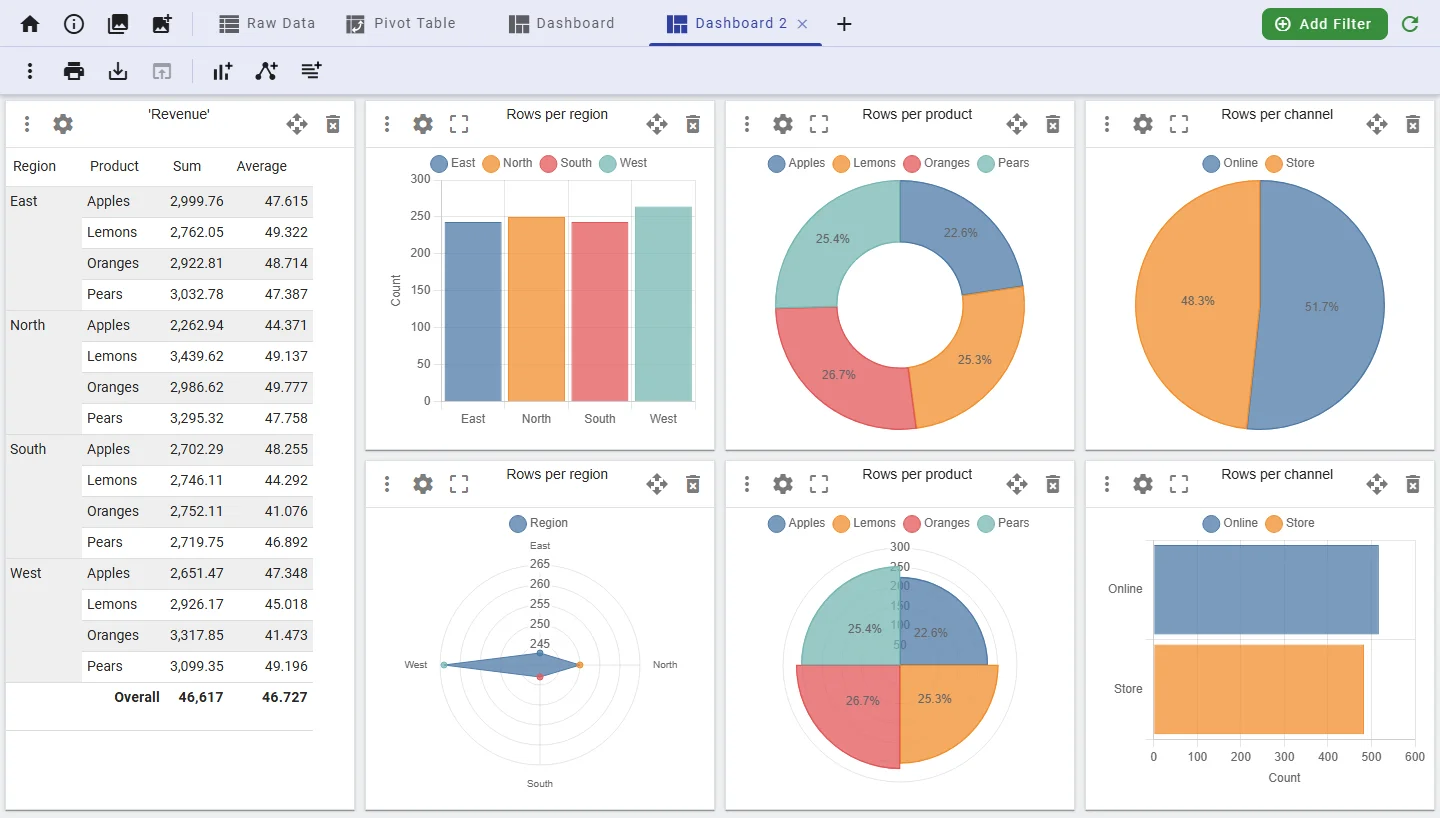
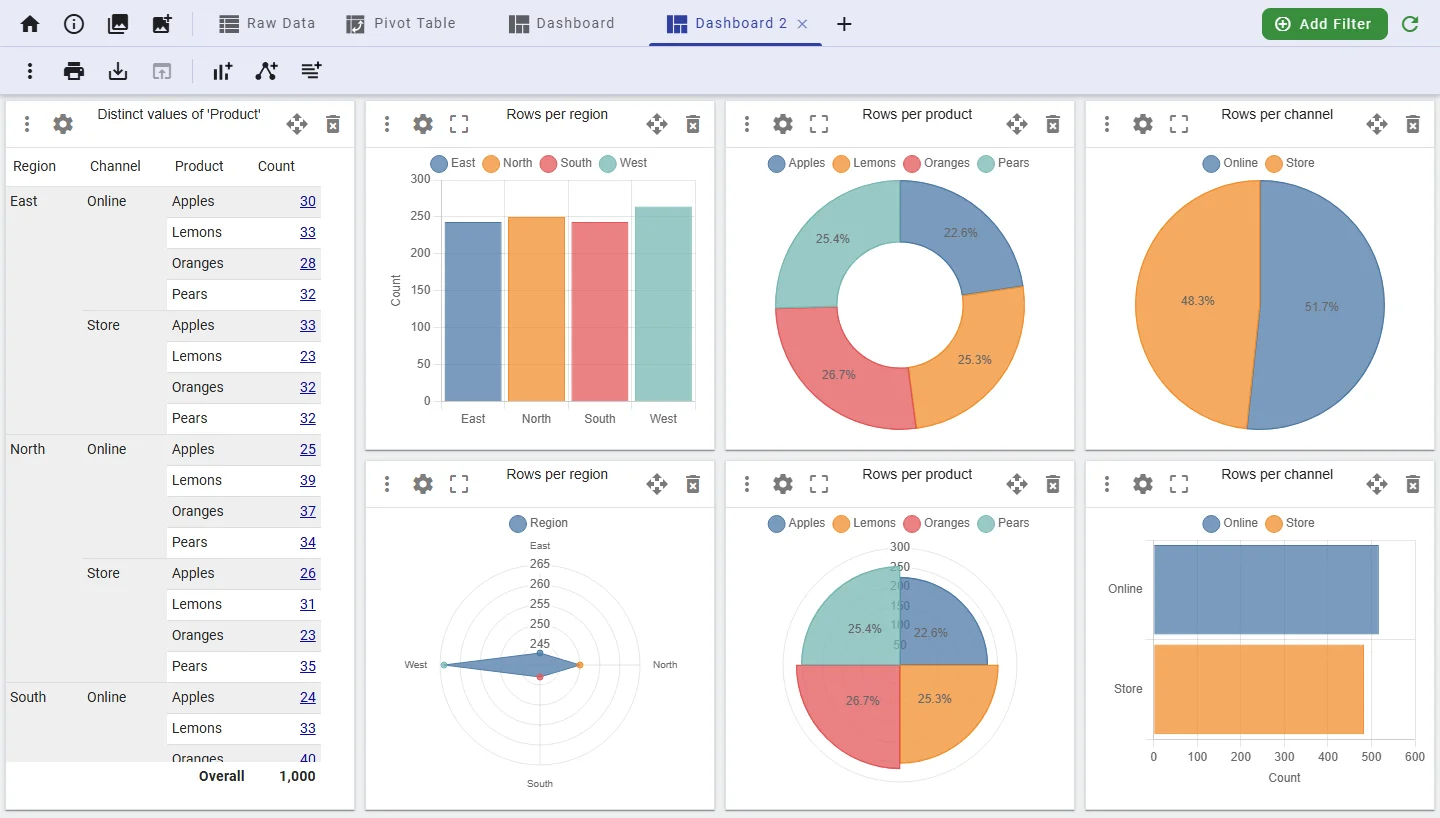
Add raw data time filter figure to README, show count summary with links on intro

diff --git a/src/intro/index.html b/src/intro/index.html
@@ -192,15 +192,15 @@
         <figure class="landing-frame">
           <button class="landing-zoom" type="button" commandfor="zoom-dashboards" command="show-modal">
             <img src="screenshots/dashboards.webp"
-              alt="Dashboard with an aggregated summary table and bar, doughnut, pie, radar, polar area and horizontal bar charts"
+              alt="Dashboard with a summary table counting rows per region, channel and product, with links to the underlying data, next to bar, doughnut, pie, radar, polar area and horizontal bar charts"
               width="1440" height="818" loading="lazy">
           </button>
           <dialog id="zoom-dashboards" class="landing-zoom-dialog" closedby="any"
-            aria-label="Dashboard with an aggregated summary table and bar, doughnut, pie, radar, polar area and horizontal bar charts">
+            aria-label="Dashboard with a summary table counting rows per region, channel and product, with links to the underlying data, next to bar, doughnut, pie, radar, polar area and horizontal bar charts">
             <button class="landing-btn landing-btn-primary landing-zoom-close" type="button"
               commandfor="zoom-dashboards" command="close">Close</button>
             <img src="screenshots/dashboards.webp"
-              alt="Dashboard with an aggregated summary table and bar, doughnut, pie, radar, polar area and horizontal bar charts"
+              alt="Dashboard with a summary table counting rows per region, channel and product, with links to the underlying data, next to bar, doughnut, pie, radar, polar area and horizontal bar charts"
               width="1440" height="818" loading="lazy">
           </dialog>
         </figure>

diff --git a/README.md b/README.md
@@ -15,25 +15,27 @@ Use Koia straight away at [**https://www.koia.io**](https://www.koia.io) or cont
 
 Koia differs from similar programs mainly in that the **context to the original data** is never lost. You are always only a mouseclick apart from seeing the raw data on which the displayed element or value is based.
 
-Next to this, Koia enables the **switch between mulitple data sets**, so it is possible to create graphics based on different data without opening a lot of tabs in your browser but **switching between the data sets in one tab**.
+Next to this, Koia enables the **switch between multiple data sets**, so it is possible to create graphics based on different data without opening a lot of tabs in your browser but **switching between the data sets in one tab**.
 
 ## How it works
 
 Data is loaded from files (CSV, Excel or JSON) to the browser's IndexedDB or a local CouchDB through Koia itself or it may be written to it by a third party program. Uploaded data from an individual file is represented by a **scene**. You can switch between different scenes as you please to create diagrams based on different data.
 
-The data can be viewed, filtered and sorted in a **raw data table** or it may be refined and displayed as **charts, relationship graphs, summary or pivot tables** with a few mouseclicks. To gain insights into your data, Koia offers a variety of chart types such as: Pie charts, doughnut charts, bar charts, line charts, area charts, scatter charts radar charts and polar area charts.
+The data can be viewed, filtered and sorted in a **raw data table** or it may be refined and displayed as **charts, relationship graphs, summary or pivot tables** with a few mouseclicks. To gain insights into your data, Koia offers a variety of chart types such as: Pie charts, doughnut charts, bar charts, line charts, area charts, scatter charts, radar charts and polar area charts.
 
-Besides simply visualizing data, Koia also features **time and value filters** to present a closer look at diagrams and the numbers behind them.
+Besides simply visualizing data, Koia also features **time and value filters** to take a closer look at the data. Each view has its own filters. A time range slider, for instance, narrows the raw data table to the selected period (Picture 1).
 
- When satisfied with the outcome, users can **save** the current view or **export** data to use it elsewhere.
+ <img align="center" width="880" src="./doc/rawdata-filter.webp" alt="Raw data filtered by a time range slider">
+
+ **Picture 1:** Raw data table filtered by a time range slider on the date column.
+
+Dashboards combine summary tables, charts and relationship graphs in a grid of customizable dimension. Summary tables group data by several hierarchy levels and aggregate values such as average, sum or maximum (Picture 2).
 
  <img align="center" width="880" src="./src/intro/screenshots/dashboard.webp" alt="Dashboard on a five column grid">
 
- **Picture 1:** Dashboard on a five column grid with a summary table of revenue grouped by region, channel and product (average, sum, max), a scatter chart of units and revenue over time, and bar, doughnut and polar area charts.
+ **Picture 2:** Dashboard on a five column grid with a summary table of revenue grouped by region, channel and product (average, sum, max), a scatter chart of units and revenue over time, and bar, doughnut and polar area charts.
 
- <img align="center" width="880" src="./src/intro/screenshots/dashboards.webp" alt="Dashboard with aggregated summary table and six chart types">
-
- **Picture 2:** Dashboard with a summary table of average and total revenue per region and product next to bar, doughnut, pie, radar, polar area and horizontal bar charts.
+When satisfied with the outcome, users can **save** the current view or **export** data to use it elsewhere.
 
 ## Getting Started
 
